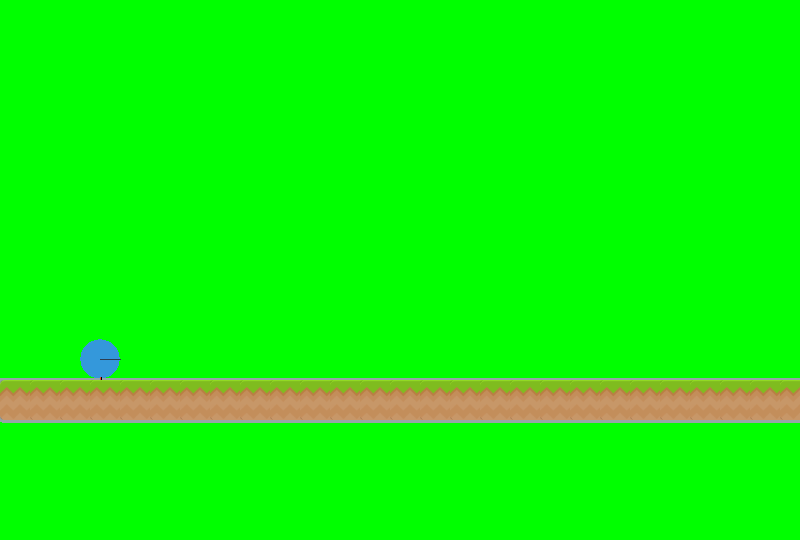
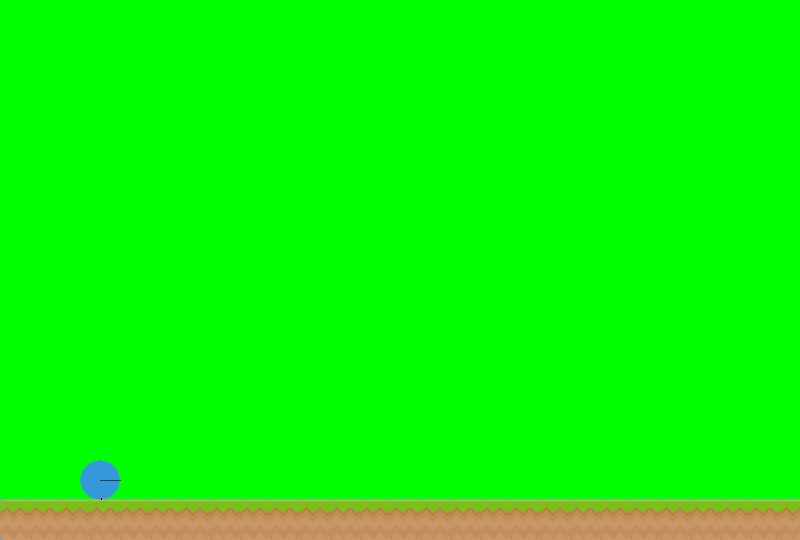
mas cambios

Changed region(s): [[0.0, 0.6222, 1.0, 0.8], [0.0, 0.8593, 1.0, 1.0]]

diff --git a/pymunk_ejemplos/intro.py b/pymunk_ejemplos/intro.py
@@ -2,7 +2,6 @@ import pymunk
 import pymunk.pygame_util
 import pygame
 from recursos import colores
-GRAY = (220, 220, 220)
 space = pymunk.Space()
 space.gravity = 0, -900
 b0 = space.static_body
@@ -31,7 +30,7 @@ class App:
             space.debug_draw(self.draw_options)
             j=0
             for l in range(100):
-                self.screen.blit(img,(0+j,380))
+                self.screen.blit(img,(0+j,500))
                 j=j+30
             pygame.display.update()
             

diff --git a/practica1.py b/practica1.py
@@ -2,7 +2,7 @@ from pymunk_ejemplos.intro import *
 from recursos import colores
 
 
-segment = pymunk.Segment(b0, (2, 140), (800, 140), 22)
+segment = pymunk.Segment(b0, (2, 19), (800, 19), 22)
 segment.elasticity = 0.5
 segment.friction = 0.5
 
